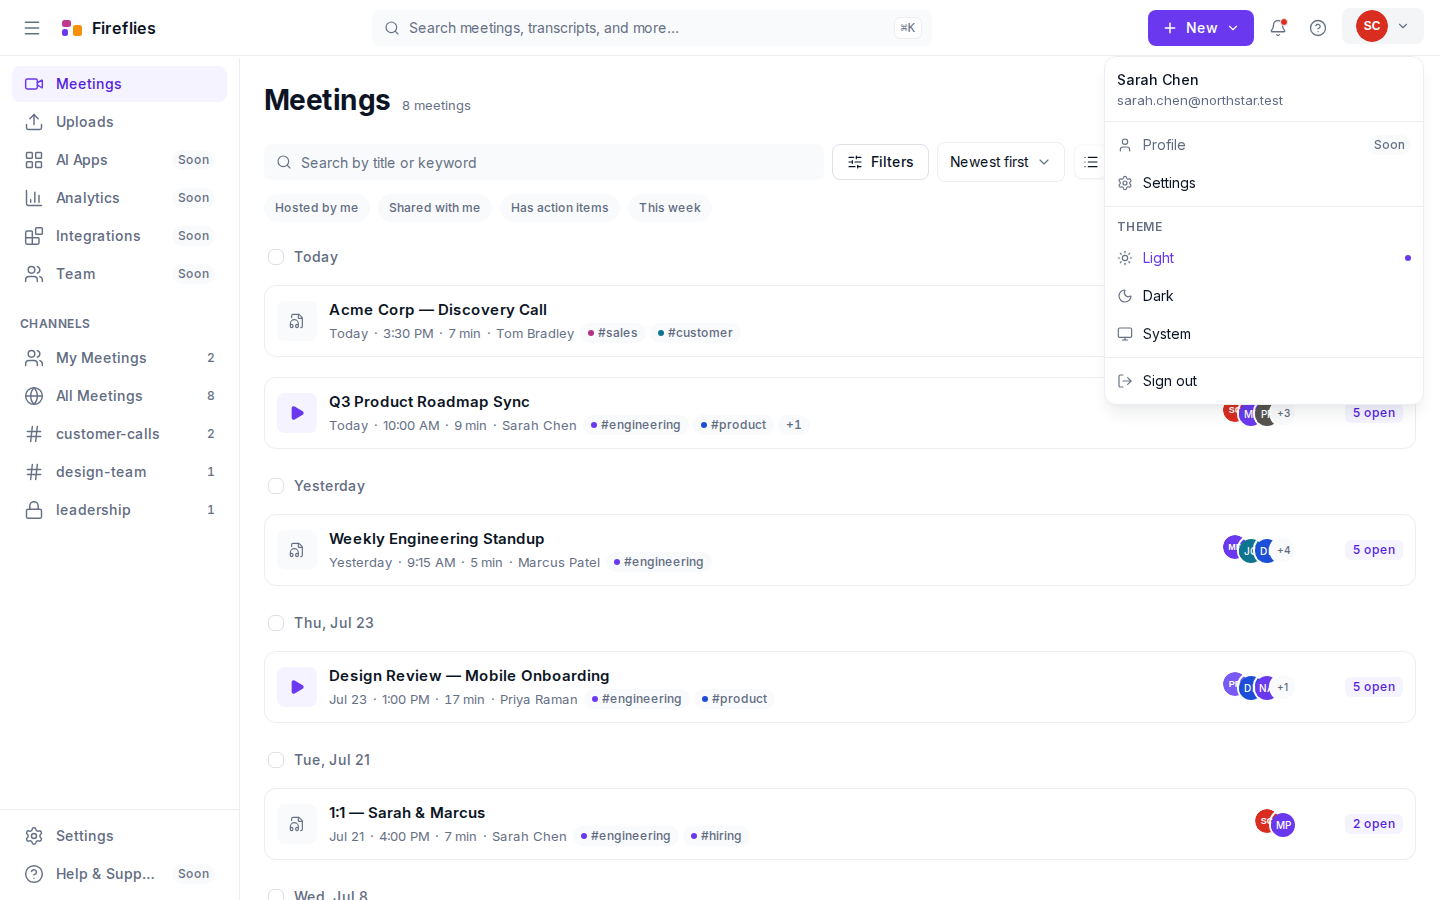
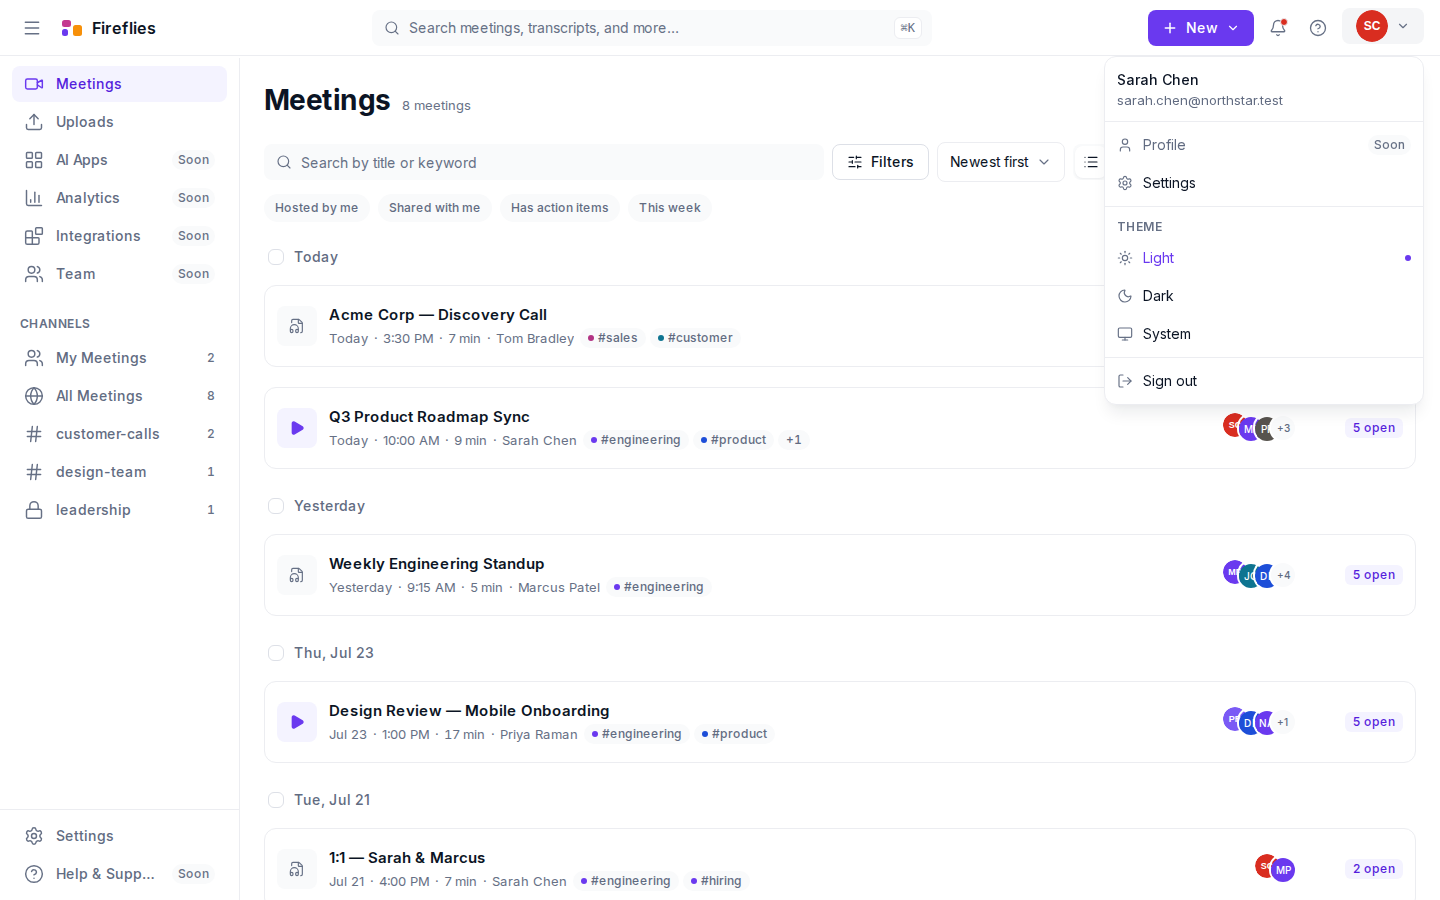
T-46.1: the notebook row is 82px, taken from the reference (ADR-150)
The last open fidelity item. ADR-036 kept the plan's 72px while adopting the
reference's card layout; measuring says their card is 17% taller relative to
the topbar and 12% relative to the row-title glyph band.

It stayed open behind a false reason — that the virtualiser sizes items from
this token. It does not; the virtualiser is on the transcript list with its own
ESTIMATED_ROW_PX = 92 and the notebook is not virtualised at all.

The target had to be decided, not read off. Their capture is not a uniform zoom
of ours: the implied scale is 1.268 via the topbar, 1.357 via the glyph band,
1.493 via the card. Anchoring on the topbar gives 84.8px, on type 79.2px, and
the 7% spread is our own topbar:type ratio differing from theirs. 82px
minimises the worst case instead of satisfying one anchor and abandoning the
other: card/topbar 1.286 -> 1.446 (ref 1.514), card/glyph 5.143 -> 5.786
(ref 5.658).

Ten baselines moved — notebook in two themes and four widths, component gallery
in two because it renders real MeetingRows — and nothing else, which is the
evidence the token is used where it is documented to be.

Fewer meetings fit above the fold now. That is the reference's own trade.

Suite green: 552 e2e, 440 pytest, 287 vitest.

diff --git a/frontend/tailwind.config.ts b/frontend/tailwind.config.ts
@@ -233,7 +233,21 @@ const config: Config = {
         rail: '240px',
         'rail-collapsed': '64px',
         'icon-rail': '56px',
-        row: '72px',
+        /*
+         * 82px, taken from the reference (T-46.1) — was 72px, the plan's value.
+         *
+         * Measured on `docs/reference/fireflies/02.png`, their card is short
+         * against BOTH our anchors: 1.514 x their topbar where ours was 1.286,
+         * and 5.658 x their row-title glyph band where ours was 5.143. No
+         * single value satisfies both, because our own topbar:type ratio sits
+         * 7% off theirs (4.000 vs 3.737) — their capture is not a uniform zoom
+         * of ours, so the difference cannot be normalised away.
+         *
+         * 82 minimises the worst case: 3.3% under on the topbar anchor, 3.5%
+         * over on the type anchor, against 17% and 12% short before. Anchoring
+         * on either alone would have overshot the other by the full 7%.
+         */
+        row: '82px',
 
         /*
          * Notebook list rhythm, derived from `docs/reference/fireflies/02.png`

diff --git a/e2e/tests/12-states.spec.ts b/e2e/tests/12-states.spec.ts
@@ -124,7 +124,7 @@ test.describe('states', () => {
     // default 5s can still expire before first paint.
     await expect(skeletons.first()).toBeVisible({ timeout: 15_000 })
     await expect(skeletons).toHaveCount(8)
-    expect((await skeletons.first().boundingBox())!.height).toBe(72)
+    expect((await skeletons.first().boundingBox())!.height).toBe(82)
 
     // The header and toolbar do not depend on data, so they render immediately.
     await expect(page.getByRole('heading', { name: 'Meetings', level: 1 })).toBeVisible()

diff --git a/e2e/tests/08-notebook.spec.ts b/e2e/tests/08-notebook.spec.ts
@@ -54,7 +54,7 @@ test.describe('notebook', () => {
     expect(new Set(heights).size).toBe(1)
     // The card is pinned to the `row` token, which is the plan's 72px — so the
     // original assertion holds after all, just on a card rather than a table row.
-    expect(heights[0]).toBe(72)
+    expect(heights[0]).toBe(82)
   })
 
   test('T12-C · hovering a row reveals the checkbox and the kebab', async ({ page }) => {

diff --git a/e2e/tests/07-primitives.spec.ts b/e2e/tests/07-primitives.spec.ts
@@ -310,7 +310,7 @@ test.describe('primitives', () => {
     // when data lands.
     const skeleton = page.getByTestId('meeting-row-skeleton')
     await skeleton.scrollIntoViewIfNeeded()
-    expect((await skeleton.boundingBox())!.height).toBe(72)
+    expect((await skeleton.boundingBox())!.height).toBe(82)
   })
 
   test('every icon-only control has an accessible name', async ({ page }) => {

diff --git a/docs/decisions.md b/docs/decisions.md
@@ -3444,3 +3444,49 @@ into one `space-y-2`, so once those diverged it would have stood in for a list
 taller than itself and the content would have jumped on load. That is the one
 thing a skeleton exists to prevent, and no test asserts inter-row gaps — only
 row height — so it would not have been caught.
+
+## ADR-150 — The notebook row is 82px, taken from the reference
+
+**Date:** 2026-07-28 · **Task:** T-46.1 · **Status:** Accepted · **Amends ADR-036**
+
+**Context.** ADR-036 adopted the reference's card layout but kept the plan's
+72px height, noting "as it turned out, the 72px height, which the card is pinned
+to via the `row` token". Measuring `docs/reference/fireflies/02.png` says
+otherwise: their card is short against both of our anchors, by 17% relative to
+the topbar and 12% relative to the row-title glyph band.
+
+This was the last open item in `docs/ui-audit.md`, and it stayed open for a day
+behind a reason that was **false** — that the virtualiser sizes its items from
+this token. It does not. The virtualiser is on the transcript list and estimates
+from its own `ESTIMATED_ROW_PX = 92`; the notebook is not virtualised. That
+claim was written once and repeated into three documents before anyone opened
+the file.
+
+**Why the target needed deciding rather than reading off.** The reference's
+capture is not a uniform zoom of ours. Solving for the implied scale gives three
+different answers — 1.268 via the topbar, 1.357 via the glyph band, 1.493 via
+the card — so their proportions genuinely differ and no normalisation removes
+the disagreement. Anchoring the card on their topbar gives 84.8px; on their type
+it gives 79.2px. The 7% spread between those is exactly our own topbar:type
+ratio differing from theirs (4.000 vs 3.737).
+
+**Decision.** 82px, the value that minimises the worst case rather than
+satisfying one anchor and abandoning the other.
+
+| | Before | After | Reference |
+|---|---|---|---|
+| card ÷ topbar | 1.286 (−15%) | **1.446 (−4.5%)** | 1.514 |
+| card ÷ title glyph | 5.143 (−9%) | **5.786 (+2.3%)** | 5.658 |
+
+**Consequences.** Three assertions moved with it — `08-notebook` on the row,
+`07-primitives` and `12-states` on the skeleton that mirrors it — plus
+`design.md:87`. Ten visual baselines: the notebook in two themes and four
+widths, and the component gallery in two, because the gallery renders real
+`MeetingRow`s. Nothing outside those surfaces moved, which is the evidence the
+token is used where it is documented to be used.
+
+Fewer meetings now fit above the fold. That is a real cost and it is the
+reference's own trade: Fireflies shows roughly four cards where we used to show
+six. Matching a design means matching its density, not just its parts.
+
+---

diff --git a/design.md b/design.md
@@ -84,7 +84,7 @@ Page header:   H1 "Meetings"  (28px/700)   ·  subtitle "N meetings"  (13px/mute
 Toolbar row:   [🔍 Search meetings…            ]  [Filters ▾ (n)]  [Sort: Recent ▾]  [⊞|☰ view]
 Chip row:      [Hosted by me] [Shared with me] [Has action items]   ← toggle chips, pill radius
 Table header:  ☐ | TITLE | DATE | DURATION | PARTICIPANTS | ACTION ITEMS |   (sticky, text-label)
-Rows (h=72):   ☐ | ▶thumb  Title bold 15px   | Jul 24, 2026 | 42:18 | ●●●+3 | 4 open |  [⋯]
+Rows (h=82):   ☐ | ▶thumb  Title bold 15px   | Jul 24, 2026 | 42:18 | ●●●+3 | 4 open |  [⋯]
                         ↳ 13px muted preview of overview, 1 line, ellipsis
 Bulk bar:      appears bottom-centre when ≥1 checked — "3 selected · Move · Delete · Clear"
 Pagination:    "Showing 1–20 of 47"  [‹] [1][2][3] [›]
